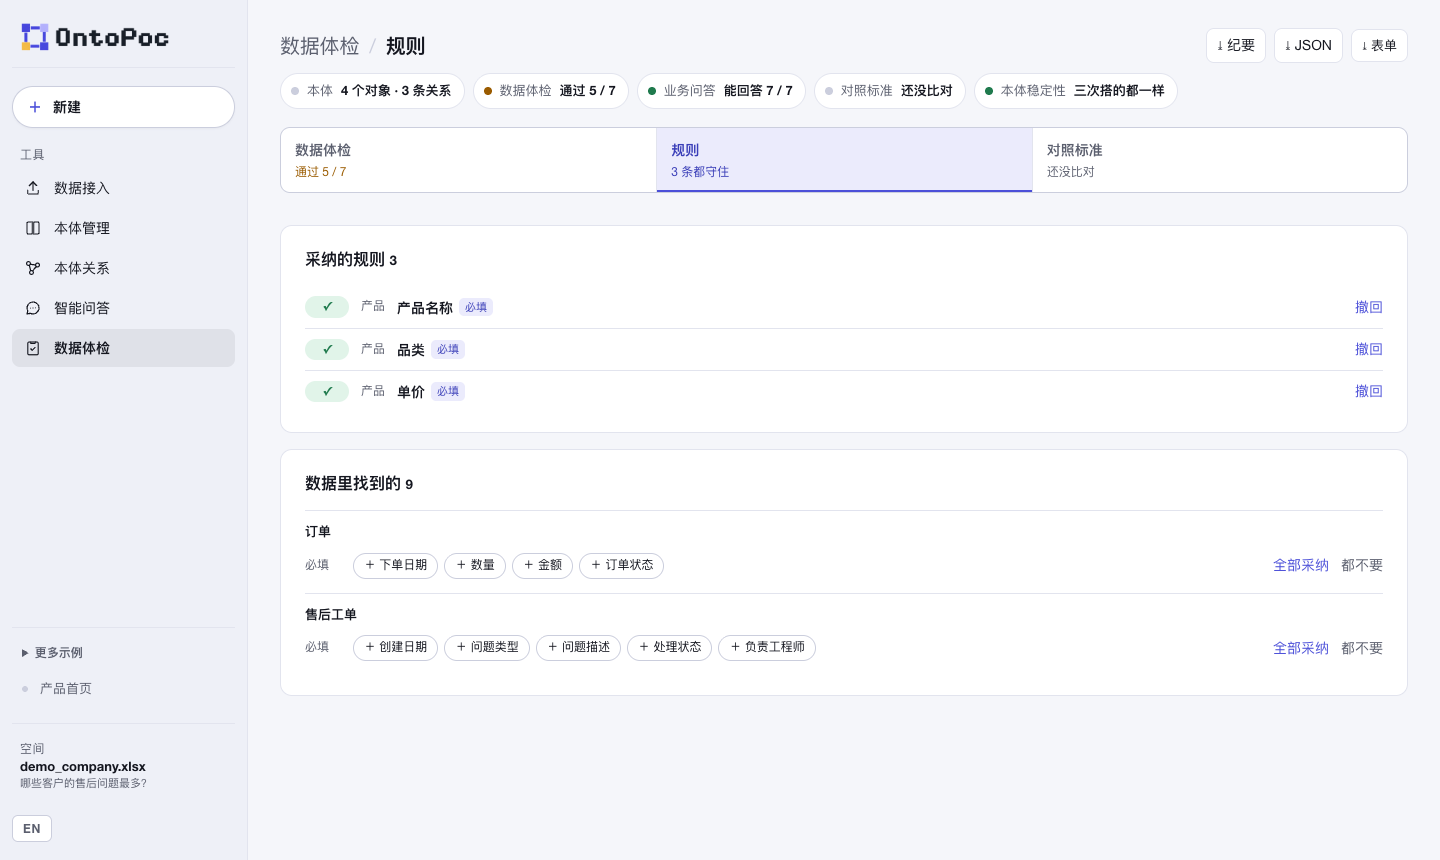
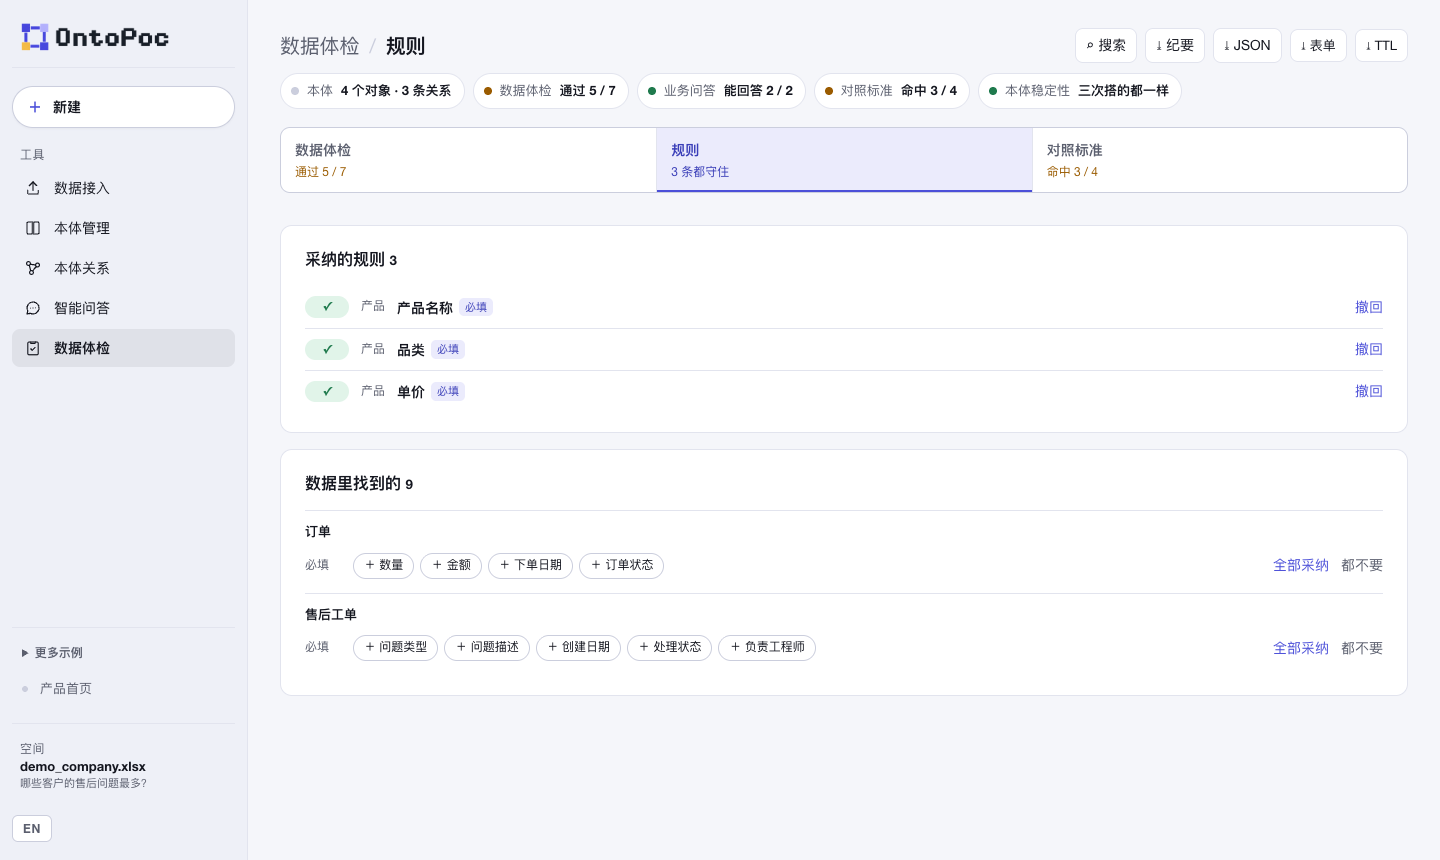
feat: 页面跟上「上传只答目的里的问题」；原则改为串联至多 3 步、每次调用对应一个人的判断
- 进度写「正在回答你在建模目的里写的问题」；没写问题时不再说「问答已完成」
- 业务问答标签点开到「你问的」，目的问题带「建模目的」标记，可直接存为验收问题
- README、AGENTS、开发护栏同步新原则；截图重新离屏生成

diff --git a/landing-page/src/OntologyStudio.jsx b/landing-page/src/OntologyStudio.jsx
@@ -21,7 +21,7 @@ import { RulesView } from "./RulesView.jsx";
 import { rulesTile } from "./rulesModel.js";
 import { earlierVersionOf, versionRows } from "./versionModel.js";
 import { answerTags, filterQuestions, stabilityRows, typeMix } from "./visualModel.js";
-import { objectsNav, qaNav, sectionOfTile, sectionsFor } from "./workspaceModel.js";
+import { objectsNav, qaNav, qaPlaceFor, sectionOfTile, sectionsFor } from "./workspaceModel.js";
 import "./PublicRecallReview.css";
 import "./OntologyStudio.css";
 
@@ -260,7 +260,7 @@ function Answer({ item, onPath, run }) {
 function QuestionItem({ item, onPath, run, onAccept }) {
   const why = run && onAccept ? canAccept(run, item) : "不可用";
   return <li className="os-question">
-    <div className="os-question-head"><span className={`os-pill os-${item.status}`}>{STATUS_LABELS[item.status] || item.status}</span><b>{item.question}</b></div>
+    <div className="os-question-head"><span className={`os-pill os-${item.status}`}>{STATUS_LABELS[item.status] || item.status}</span>{item.from_purpose && <span className="os-pill os-purpose" title="你在建模目的里写的问题，上传时一并回答">建模目的</span>}<b>{item.question}</b></div>
     <Answer item={item} onPath={onPath} run={run} />
     {onAccept && item.status === "answered" && (why
       ? <p className="pr-muted">{why}</p>
@@ -766,7 +766,7 @@ export function OntologyStudio({ request = null, runs = null, section = null, na
     if (key === "ref" && !run.evaluation.reference) { goConfirm(); return; }
     if (key === "fit" || key === "ref") setEvalView(key);
     if (key === "ontology" || key === "stability") { setObjectKey(null); setObjPlace(key === "stability" ? "stability" : "objects"); }
-    if (key === "qa") setQaPlace("model");
+    if (key === "qa") setQaPlace(qaPlaceFor(run));
     setTab(sectionOfTile(key));
   }
   function demo(url = DEMO_URL) { setError(""); readText(url).then(show).catch((e) => setError(`示例读取失败：${e.message}`)); }

diff --git a/landing-page/src/ontologyStudioModel.js b/landing-page/src/ontologyStudioModel.js
@@ -120,8 +120,8 @@ export function progressSteps(events, kind) {
       current = d.errors ? "model" : "evaluate";
     }
     if (ev.stage === "evaluate") { mark("model", "done"); if (steps[at.verify].status === "pending") mark("verify", "done"); mark("evaluate", "active"); current = "evaluate"; }
-    if (ev.stage === "questions") mark("evaluate", "active", "数据体检已完成，正在出题并用数据回答");
-    if (ev.stage === "stability") mark("evaluate", "active", "问答已完成，正在等另外两次建模，比对哪些每次都有");
+    if (ev.stage === "questions") mark("evaluate", "active", "数据体检已完成，正在回答你在建模目的里写的问题");
+    if (ev.stage === "stability") mark("evaluate", "active", "正在等另外两次建模，比对哪些每次都有");
     if (ev.stage === "done") for (const s of steps) s.status = "done";
   }
   if (!events.some((ev) => ["evaluate", "done", "failed"].includes(ev.stage)) && steps[at[current]].status === "pending") mark(current, "active");

diff --git a/landing-page/src/workspaceModel.js b/landing-page/src/workspaceModel.js
@@ -54,6 +54,12 @@ export function objectsNav(run, decisions) {
   ];
 }
 
+/** Where the questions chip opens: the person's own questions (the purpose's among them), or the model's round when
+ *  that is all a run has (runs from before the purpose was answered on upload). */
+export function qaPlaceFor(run) {
+  return !run.evaluation.asked?.length && run.evaluation.questions?.items?.length ? "model" : "ask";
+}
+
 /** 智能问答's places: asking, the questions fixed with the business, the model's round. */
 export function qaNav(run) {
   const { evaluation } = run;

diff --git a/landing-page/src/OntologyStudio.css b/landing-page/src/OntologyStudio.css
@@ -451,6 +451,7 @@ small.os-tone-warn { color: var(--amber); }
 
 /* rules */
 .os-empty-line { margin: 0 !important; color: var(--edge-strong); }
+.os-pill.os-purpose { background: var(--primary-soft); color: var(--primary-ink); }
 .os-rule-list { list-style: none; margin: 0; padding: 0; display: grid; gap: 0; }
 .os-rule-list li { display: flex; flex-wrap: wrap; align-items: center; gap: 8px 12px; padding: 9px 0; border-top: 1px solid var(--edge); font-size: 14px; }
 .os-rule-list li:first-child { border-top: 0; }

diff --git a/src/ontology_poc_generator/mcp_server.py b/src/ontology_poc_generator/mcp_server.py
@@ -274,7 +274,7 @@ TOOLS = [
     _tool(health, '本机建模服务是否在跑、有没有模型凭据、是否在跑旧代码。'),
     _tool(list_runs, '本机保存过的运行，新的在前。', {'limit': {'type': 'integer', 'minimum': 1}}),
     _tool(preview_upload, '不调用模型：看这几份文件会发给模型什么（字段名和示例值）。', FILES, ('files',)),
-    _tool(build_ontology, '上传文件并建本体：模型提出、代码核验、数据体检、自动出题、建三次比稳定性。给 previous 表示这是那次运行的新版本，沿用它的确认、验收问题和规则。会调用模型，等它跑完才返回。',
+    _tool(build_ontology, '上传文件并建本体：模型提出、代码核验、数据体检、建三次比稳定性，并回答 purpose 里写的问题。给 previous 表示这是那次运行的新版本，沿用它的确认、验收问题和规则。会调用模型，等它跑完才返回。',
           {**FILES, 'previous': {'type': 'string', 'description': '上一版本的运行保存名（来自 list_runs）；不是新版本就不写'}}, ('files',)),
     _tool(run_overview, '一次运行的概况：对象和关系数、体检通过几项、问答能答几道、稳定性、是否确认过。', RUN, ('saved_as',)),
     _tool(list_objects, '本体里的对象：名称、说明、来自哪些表、识别字段、数据里有多少个、几条关系、人的判断。', RUN, ('saved_as',)),

diff --git a/README.en.md b/README.en.md
@@ -32,7 +32,7 @@ The interface is in Chinese; this page describes it in English.
 
 ## Overview
 
-Upload a few business tables (Excel, CSV) or a process document, and OntoPoc drafts an ontology: which objects the business has, what tells each one apart, and how they relate. Code then checks it against every row: do the fields exist, do the identity fields have values, do the relations actually connect in the data. It runs a data check and answers business questions from the data. You judge each part right or wrong; your judgement is kept, and the next upload of the same file, or a new version of it, starts from it.
+Upload a few business tables (Excel, CSV) or a process document, and OntoPoc drafts an ontology: which objects the business has, what tells each one apart, and how they relate. Code then checks it against every row: do the fields exist, do the identity fields have values, do the relations actually connect in the data. It runs a data check and answers the question you wrote from the data. You judge each part right or wrong; your judgement is kept, and the next upload of the same file, or a new version of it, starts from it.
 
 The result can be exported in the shape of a data platform's object form or as W3C Turtle (OWL and SHACL), and every feature is also an MCP tool other agents can call.
 
@@ -59,9 +59,9 @@ All screenshots come from the synthetic sample in the repository, `examples/comp
 | Action | What the system does |
 |---|---|
 | Upload tables and write the question you want answered | The model sees only each column's name and up to 3 example values, and proposes objects, identity fields and relations; code checks 17 kinds of error and sends it back to redo, up to 3 drafts |
-| Wait for the build | Builds the same file 3 times at once and marks where the 3 disagree (where the model is unsure and you should decide) |
+| Wait for the build | Builds the same file 3 times at once and marks where the 3 disagree (where the model is unsure and you should decide); if your purpose asks a question, it is answered from the data too, ready to keep as an acceptance question |
 | Open the data check (数据体检) | Code computes 7 checks row by row, e.g. whether one number carries conflicting details, whether every uploaded table is used |
-| Ask a question (智能问答) | The model writes a structured query and code computes the answer on the data; when it cannot, it says whether the ontology lacks something, the data lacks it, or the question is beyond the query. 6 questions per round |
+| Ask a question (智能问答) | The model writes a structured query and code computes the answer on the data; when it cannot, it says whether the ontology lacks something, the data lacks it, or the question is beyond the query. The model can also write a round of 6 questions on request |
 | Judge each part, rename, add what is missing | Saved as this file's reference ontology; the next upload is compared against it and prefilled |
 | Fix up to 3 questions as acceptance questions | Every rerun computes them with the same query and tells you which changed |
 | Adopt rules found in the data | Every rerun checks them and lists the objects that break them |
@@ -70,7 +70,7 @@ All screenshots come from the synthetic sample in the repository, `examples/comp
 | Click "⤓ 表单" at the top right | One CSV per object, in the columns data platforms usually ask for when defining an object |
 | Click "⤓ TTL" at the top right | Three Turtle files: `ontology.ttl` describes objects, fields, relations and identity fields in OWL; in `data.ttl` every object is named by its identity values, so the same object in two tables or two versions of a file has one name and merges; `shapes.ttl` writes adopted rules as SHACL for any validator. What you judged wrong is left out |
 
-The model only judges; loops and calculations are in code, with at most 3 model calls per user action. There are 5 agents, each with a definition card in [docs/AGENTS.md](docs/AGENTS.md).
+The model only judges; loops and calculations are in code, with model calls chained at most 3 deep and each call tied to a judgement a person has to make. There are 5 agents, each with a definition card in [docs/AGENTS.md](docs/AGENTS.md).
 
 ## Try it
 
@@ -79,7 +79,7 @@ Once installed (see [Quick start](#quick-start)), with the synthetic sample in t
 | Action | Expected result |
 |---|---|
 | Without the modelling service, click "Open sample tables" (打开示例数据表) | A bundled result: 4 objects, 3 relations |
-| Upload `examples/company/demo_company.xlsx` with "哪些客户的售后问题最多？" | After half a minute to a minute, 4 cards: customer, product, order, after-sales ticket; data check 5 / 7, the two failures being the problems planted in the sample |
+| Upload `examples/company/demo_company.xlsx` with "哪些客户的售后问题最多？" | After half a minute to a minute, 4 cards: customer, product, order, after-sales ticket; data check 5 / 7, the two failures being the problems planted in the sample; the questions chip shows your question answered from the data |
 | Ask "每个客户的订单总金额是多少？" (total order amount per customer) | Totals per customer, highest 241,420, from 160 values read |
 | Relations (本体关系) → Instance graph, pick a customer | The customer and its orders as a graph; click an order to open its product |
 | "⤓ 表单" at the top right | A zip: 4 object-form CSVs and a note on what to test before importing |
@@ -175,8 +175,8 @@ Issues and pull requests are welcome. Read the [development guardrails](docs/DEV
 ## Development
 
 ```bash
-PYTHONPATH=src python3 -m unittest discover -s tests -q      # backend tests (510)
-npm --prefix landing-page run test:unit                       # page tests (196)
+PYTHONPATH=src python3 -m unittest discover -s tests -q      # backend tests (513)
+npm --prefix landing-page run test:unit                       # page tests (198)
 PYTHONPATH=src:. python3 scripts/run_company_ontology.py --file examples/company/demo_company.xlsx --output output/demo-run.json
 PYTHONPATH=src:. python3 scripts/make_demo_company.py         # regenerate the synthetic workbook
 ```

diff --git a/README.md b/README.md
@@ -57,9 +57,9 @@
 | 操作 | 系统行为 |
 |---|---|
 | 上传数据表并填写建模目的 | 模型仅读取每列字段名及至多 3 个示例值，提出对象、识别字段与关系；代码按 17 类错误校验，不通过则退回修改，至多 3 轮 |
-| 建模完成 | 同一文件并行建模 3 次，标出三次结果不一致之处，即模型不确定、需人工判断的部分 |
+| 建模完成 | 同一文件并行建模 3 次，标出三次结果不一致之处，即模型不确定、需人工判断的部分；建模目的里写了问题的，一并用数据算出答案，可直接存为验收问题 |
 | 打开"数据体检" | 代码逐行执行 7 项检查，例如同一编号的属性是否冲突、每张上传的表是否均被使用 |
-| 智能问答 | 模型将问题转写为结构化查询，由代码基于数据计算答案；无法回答时说明原因：本体缺失、数据缺失或查询不支持。每轮生成 6 道问题 |
+| 智能问答 | 模型将问题转写为结构化查询，由代码基于数据计算答案；无法回答时说明原因：本体缺失、数据缺失或查询不支持。也可以让模型按需出一组 6 道题 |
 | 逐项确认、重命名、补充对象 | 保存为该文件的参考本体，再次上传时自动比对并预填 |
 | 设定验收问题（至多 3 道） | 每次重新运行以相同查询复算，仅提示结果发生变化的问题 |
 | 采纳数据规则 | 每次重新运行均校验，列出违反规则的对象 |
@@ -68,7 +68,7 @@
 | 导出对象表单 | 每个对象生成一份 CSV，列为数据平台建对象时的常见表单列 |
 | 点击右上角"⤓ TTL" | 导出三份 Turtle 文件：`ontology.ttl` 用 OWL 描述对象、字段、关系与识别字段；`data.ttl` 中每个对象按识别值命名，同一对象跨表、跨版本同名，可直接合并；`shapes.ttl` 将已采纳的规则写成 SHACL，可用通用校验器检查。判错的对象与关系不导出 |
 
-模型只负责判断，循环与计算均由代码完成；每个用户操作至多调用模型 3 次。系统共有 5 个 Agent，定义见 [docs/AGENTS.md](docs/AGENTS.md)。
+模型只负责判断，循环与计算均由代码完成；模型调用串联至多 3 步，每次调用都对应一个需要人来做的判断。系统共有 5 个 Agent，定义见 [docs/AGENTS.md](docs/AGENTS.md)。
 
 ## 快速体验
 
@@ -77,7 +77,7 @@
 | 操作 | 预期结果 |
 |---|---|
 | 不启动建模服务，点击"打开示例数据表" | 显示内置结果：4 个对象、3 条关系 |
-| 上传 `examples/company/demo_company.xlsx`，建模目的填写"哪些客户的售后问题最多？" | 约半分钟至一分钟后生成客户、产品、订单、售后工单 4 个对象；数据体检 5 / 7 项通过，未通过的 2 项即示例中预置的问题 |
+| 上传 `examples/company/demo_company.xlsx`，建模目的填写"哪些客户的售后问题最多？" | 约半分钟至一分钟后生成客户、产品、订单、售后工单 4 个对象；数据体检 5 / 7 项通过，未通过的 2 项即示例中预置的问题；"业务问答"显示这道题已用数据答出 |
 | 在智能问答中提问"每个客户的订单总金额是多少？" | 按客户排序的合计金额，最高为 241,420，共计 160 个值 |
 | 本体关系 → 实例图谱，选择一个客户 | 以图谱展示该客户及其订单，点击订单可继续展开产品 |
 | 点击右上角"⤓ 表单" | 下载压缩包，内含 4 份对象表单 CSV 及一份导入说明 |
@@ -173,8 +173,8 @@ claude mcp add ontopoc -- env PYTHONPATH=$PWD/src python3 -m ontology_poc_genera
 ## 开发
 
 ```bash
-PYTHONPATH=src python3 -m unittest discover -s tests -q      # 后端测试（510 个）
-npm --prefix landing-page run test:unit                       # 前端测试（196 个）
+PYTHONPATH=src python3 -m unittest discover -s tests -q      # 后端测试（513 个）
+npm --prefix landing-page run test:unit                       # 前端测试（198 个）
 PYTHONPATH=src:. python3 scripts/run_company_ontology.py --file examples/company/demo_company.xlsx --output output/demo-run.json
 PYTHONPATH=src:. python3 scripts/make_demo_company.py         # 重新生成合成示例工作簿
 ```

diff --git a/docs/AGENTS.md b/docs/AGENTS.md
@@ -39,7 +39,7 @@
 | | |
 |---|---|
 | 判断什么 | 一个经营者会问的业务问题，该写成哪条结构化查询；写不出就说清卡在本体还是查询格式 |
-| 什么时候叫它 | 建模通过后自动出一组（6 道）；顾问自己问一道时再叫一次 |
+| 什么时候叫它 | 建模通过后回答建模目的里写的问题（没写问题不叫）；顾问自己问一道时再叫一次；顾问点"出一组题"时出 6 道 |
 | 给它看什么 | 建模目的、本体里的对象关系属性、取值不超过 12 种的字段的全部取值。**不给看**：数据行 |
 | 它交出什么 | 每道题的思路、题目、查询（或答不了的原因） |
 | 代码怎么核它 | 查询里的每个对象、关系、字段都要在本体里存在；**答案全部由代码在数据上算**，不采信模型给的任何数字 |

diff --git a/docs/DEVELOPMENT_GUARDRAILS.md b/docs/DEVELOPMENT_GUARDRAILS.md
@@ -51,7 +51,7 @@ Smallest path：复用哪些现有页面和函数完成它？
 
 - 提示词是代码：放在模块常量里，带版本号，每次输出都记录模型名和提示词版本。
 - 输出必须是结构化的，代码逐字段校验；判断必须附证据，代码核对证据真在原文里。
-- 一次用户动作最多串 3 次模型调用；重试只在代码里，没有进展就停。
+- 一次用户动作里模型调用最多串联 3 步；并行的每一次都要说得出服务于人的哪个判断（上传：草案、两次比稳定性、回答目的里的问题）。重试只在代码里，没有进展就停。
 - temperature 固定为 0；换模型或改提示词前，先在人工标注的样本上比对。
 - 一条规则或一个查询能做的事，不交给模型。
 
